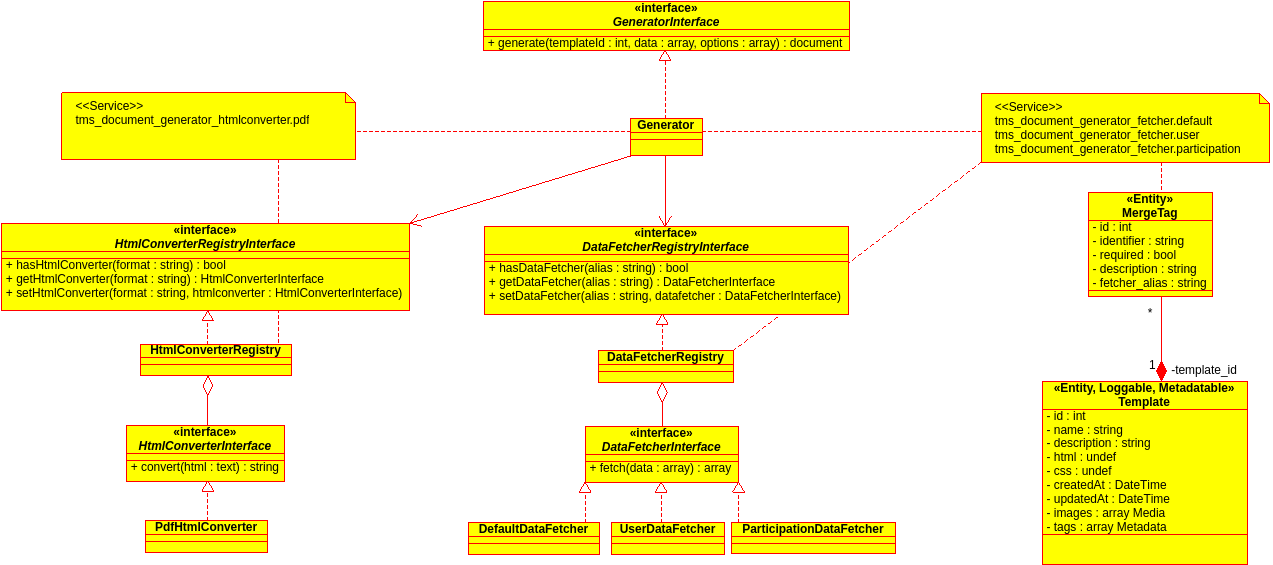
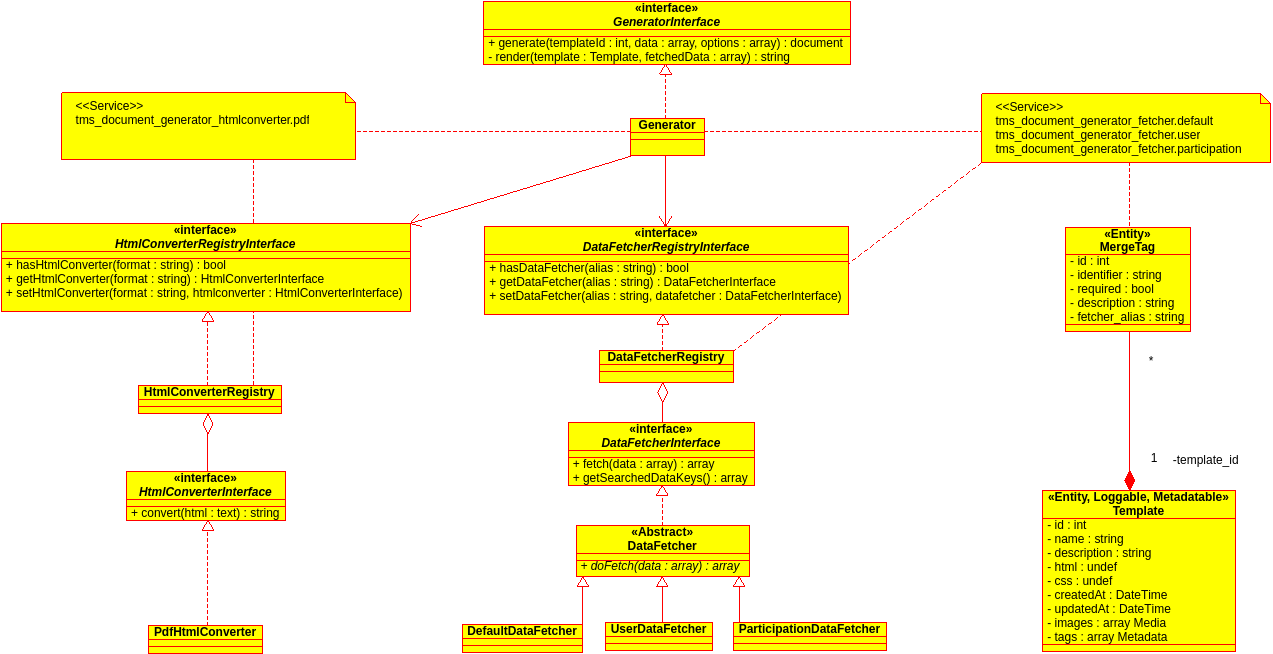
add abstractDataFetcher class into uml diagramm

diff --git a/DataFetcher/AbstractDataFetcher.php b/DataFetcher/AbstractDataFetcher.php
@@ -25,14 +25,6 @@ abstract class AbstractDataFetcher implements DataFetcherInterface
     }
 
     /**
-     * {@inheritDoc}
-     */
-    public function getSearchedDataKeys()
-    {
-        return array();
-    }
-
-    /**
      * Do fetch.
      *
      * @param  array data The data used as the fetcher source to look at.
@@ -40,4 +32,12 @@ abstract class AbstractDataFetcher implements DataFetcherInterface
      * @return array
      */
     public abstract function doFetch(array $data);
+
+    /**
+     * {@inheritDoc}
+     */
+    public function getSearchedDataKeys()
+    {
+        return array();
+    }
 }

diff --git a/Controller/Api/GeneratorController.php b/Controller/Api/GeneratorController.php
@@ -22,4 +22,18 @@ class GeneratorController extends Controller
        );
     }
 
+    public function generateAction()
+    {
+
+    }
+
+    public function downloadAction()
+    {
+
+    }
+
+    public function previewAction()
+    {
+
+    }
 }
